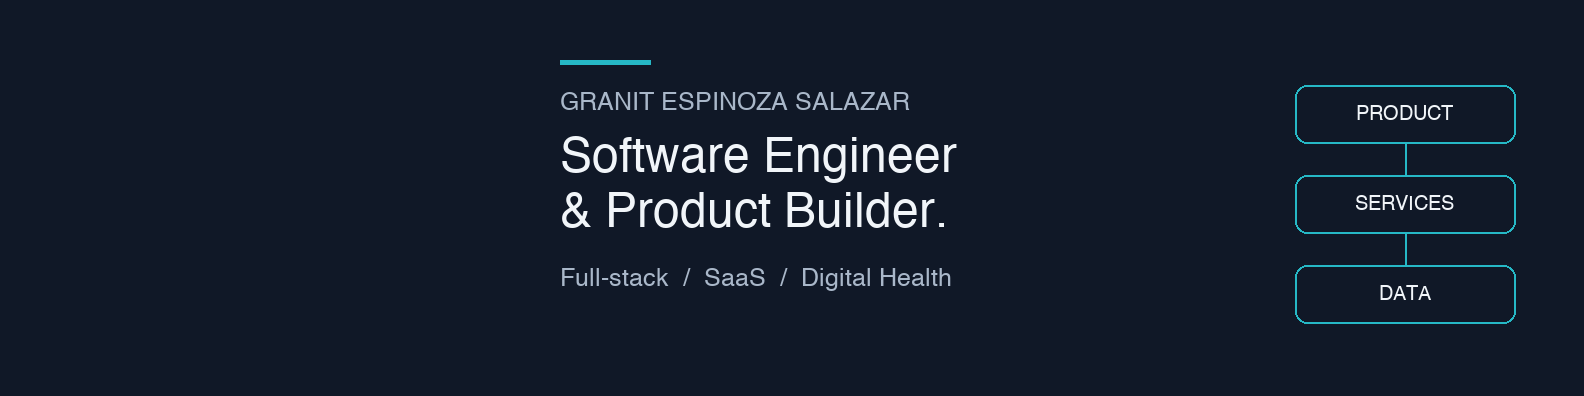
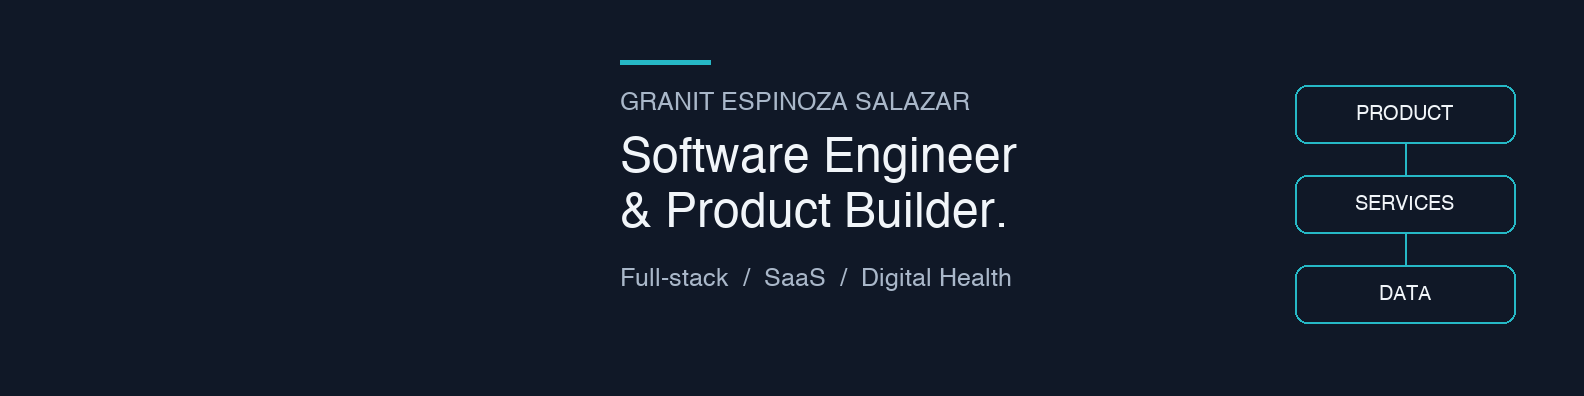
fix: improve mobile cover spacing and record publication

diff --git a/scripts/generate-assets.py b/scripts/generate-assets.py
@@ -40,11 +40,11 @@ for theme, bg, fg, muted in [('dark', '#101827', '#f1f5f9', '#a9b7c9'), ('light'
 # LinkedIn cover: leave the lower-left area clear for the profile photo.
 im = Image.new('RGB', (1584, 396), '#101827')
 d = ImageDraw.Draw(im)
-d.line((560, 62, 650, 62), fill='#26b8c6', width=5)
-d.text((560, 90), 'GRANIT ESPINOZA SALAZAR', font=font(25), fill='#a9b7c9')
-d.text((560, 135), 'Software Engineer', font=font(48), fill='#f1f5f9')
-d.text((560, 190), '& Product Builder.', font=font(48), fill='#f1f5f9')
-d.text((560, 266), 'Full-stack  /  SaaS  /  Digital Health', font=font(25), fill='#a9b7c9')
+d.line((620, 62, 710, 62), fill='#26b8c6', width=5)
+d.text((620, 90), 'GRANIT ESPINOZA SALAZAR', font=font(25), fill='#a9b7c9')
+d.text((620, 135), 'Software Engineer', font=font(48), fill='#f1f5f9')
+d.text((620, 190), '& Product Builder.', font=font(48), fill='#f1f5f9')
+d.text((620, 266), 'Full-stack  /  SaaS  /  Digital Health', font=font(25), fill='#a9b7c9')
 for y, label in [(85, 'PRODUCT'), (175, 'SERVICES'), (265, 'DATA')]:
     d.rounded_rectangle((1295, y, 1515, y+58), radius=12, outline='#26b8c6', width=2)
     d.text((1405, y+29), label, anchor='mm', font=font(20), fill='#f1f5f9')

diff --git a/docs/mantenimiento.md b/docs/mantenimiento.md
@@ -27,3 +27,7 @@ La sección Acerca de actual ya es coherente. Agregar tres elementos en Destacad
 Experiencia y stack: perfil de LinkedIn proporcionado por el usuario y leído con su sesión iniciada. Proyectos: API pública de GitHub. Inspiración estructural: https://github.com/macu-dev/macu-dev. No se copió código ni imágenes: GitHub no identificó una licencia del repositorio de referencia. Los gráficos de este perfil son originales.
 
 Entrada anterior: sin bio ni README de perfil; repositorio granitespinoza/granitespinoza no existía. No se publican métricas de experiencia, cobertura o impacto sin verificar.
+
+## Resultado de publicación
+
+README público publicado en granitespinoza/granitespinoza y comprobado visualmente en el perfil. Portada original aplicada a LinkedIn; margen de texto aumentado tras revisar la vista móvil. Descripciones de UTECdiagram y django-quality-demo actualizadas. La biografía lateral y el enlace de GitHub siguen pendientes: la conexión CLI no tiene scope user (PATCH /user rechazado). No se amplió el permiso. La selección de repositorios fijados y Destacados en LinkedIn queda pendiente.
